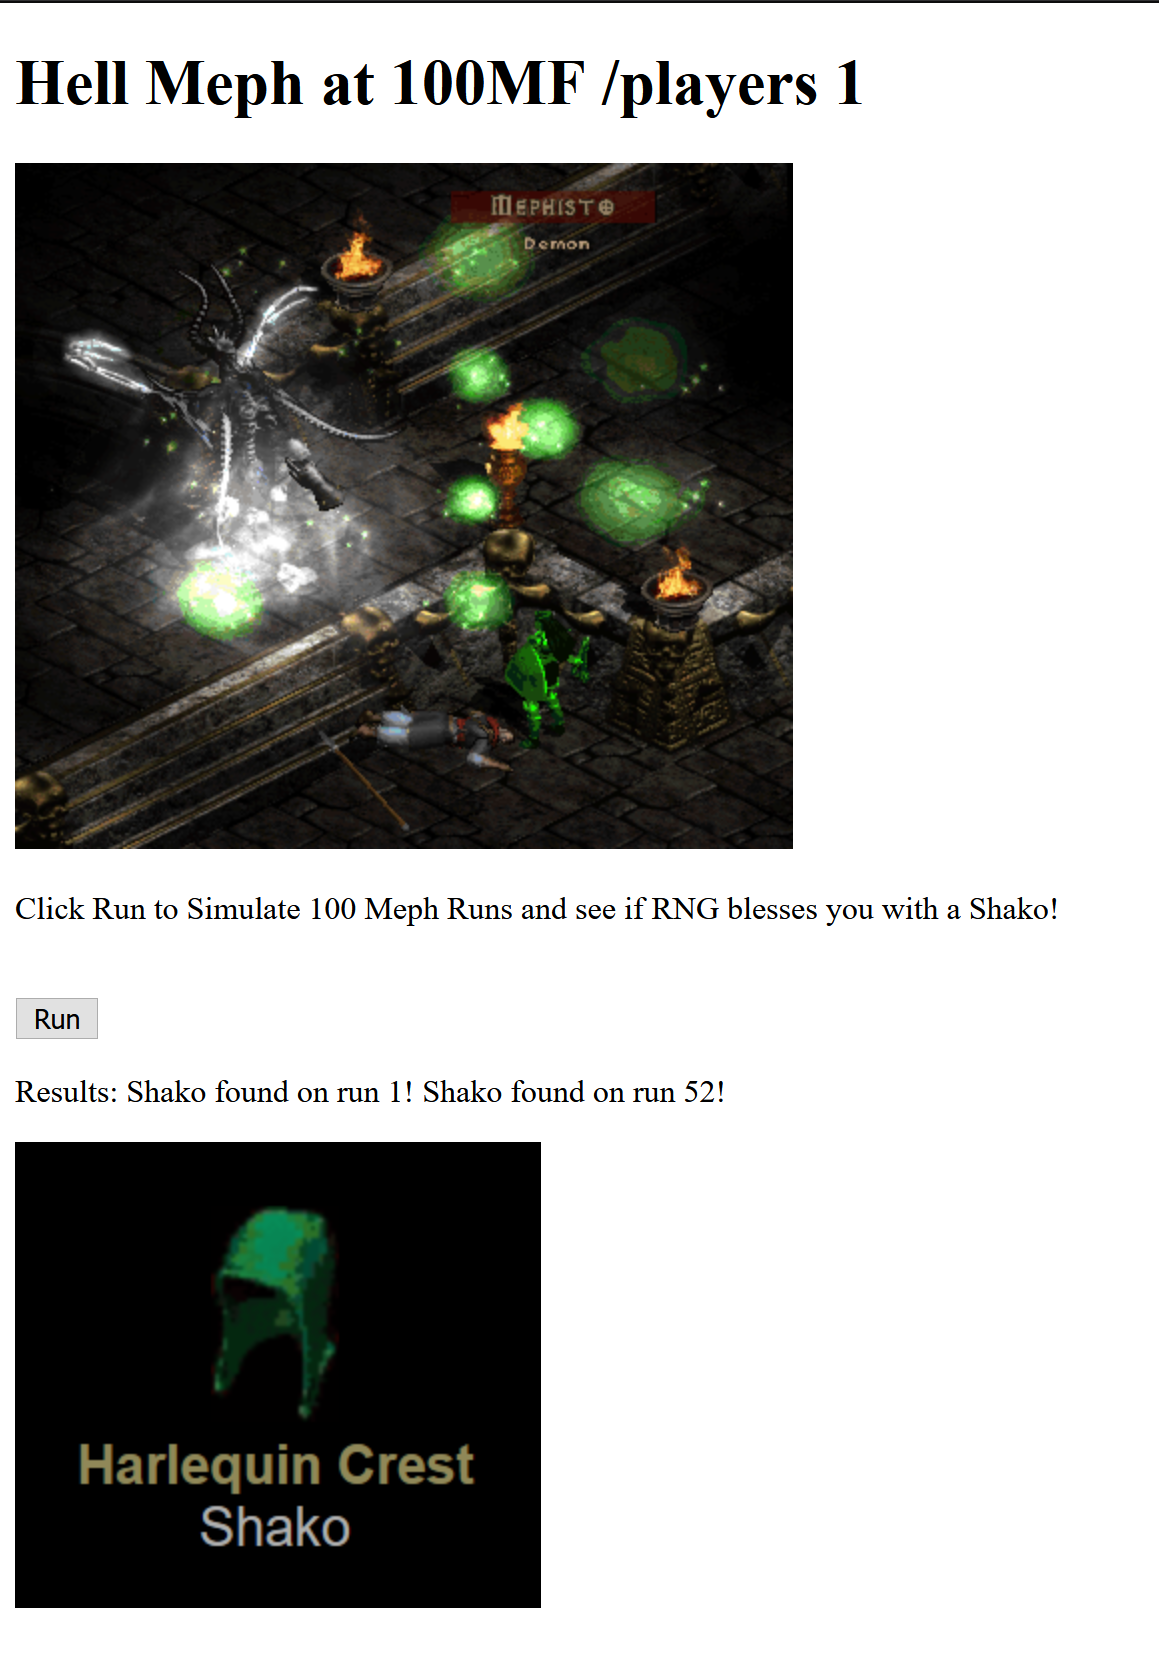
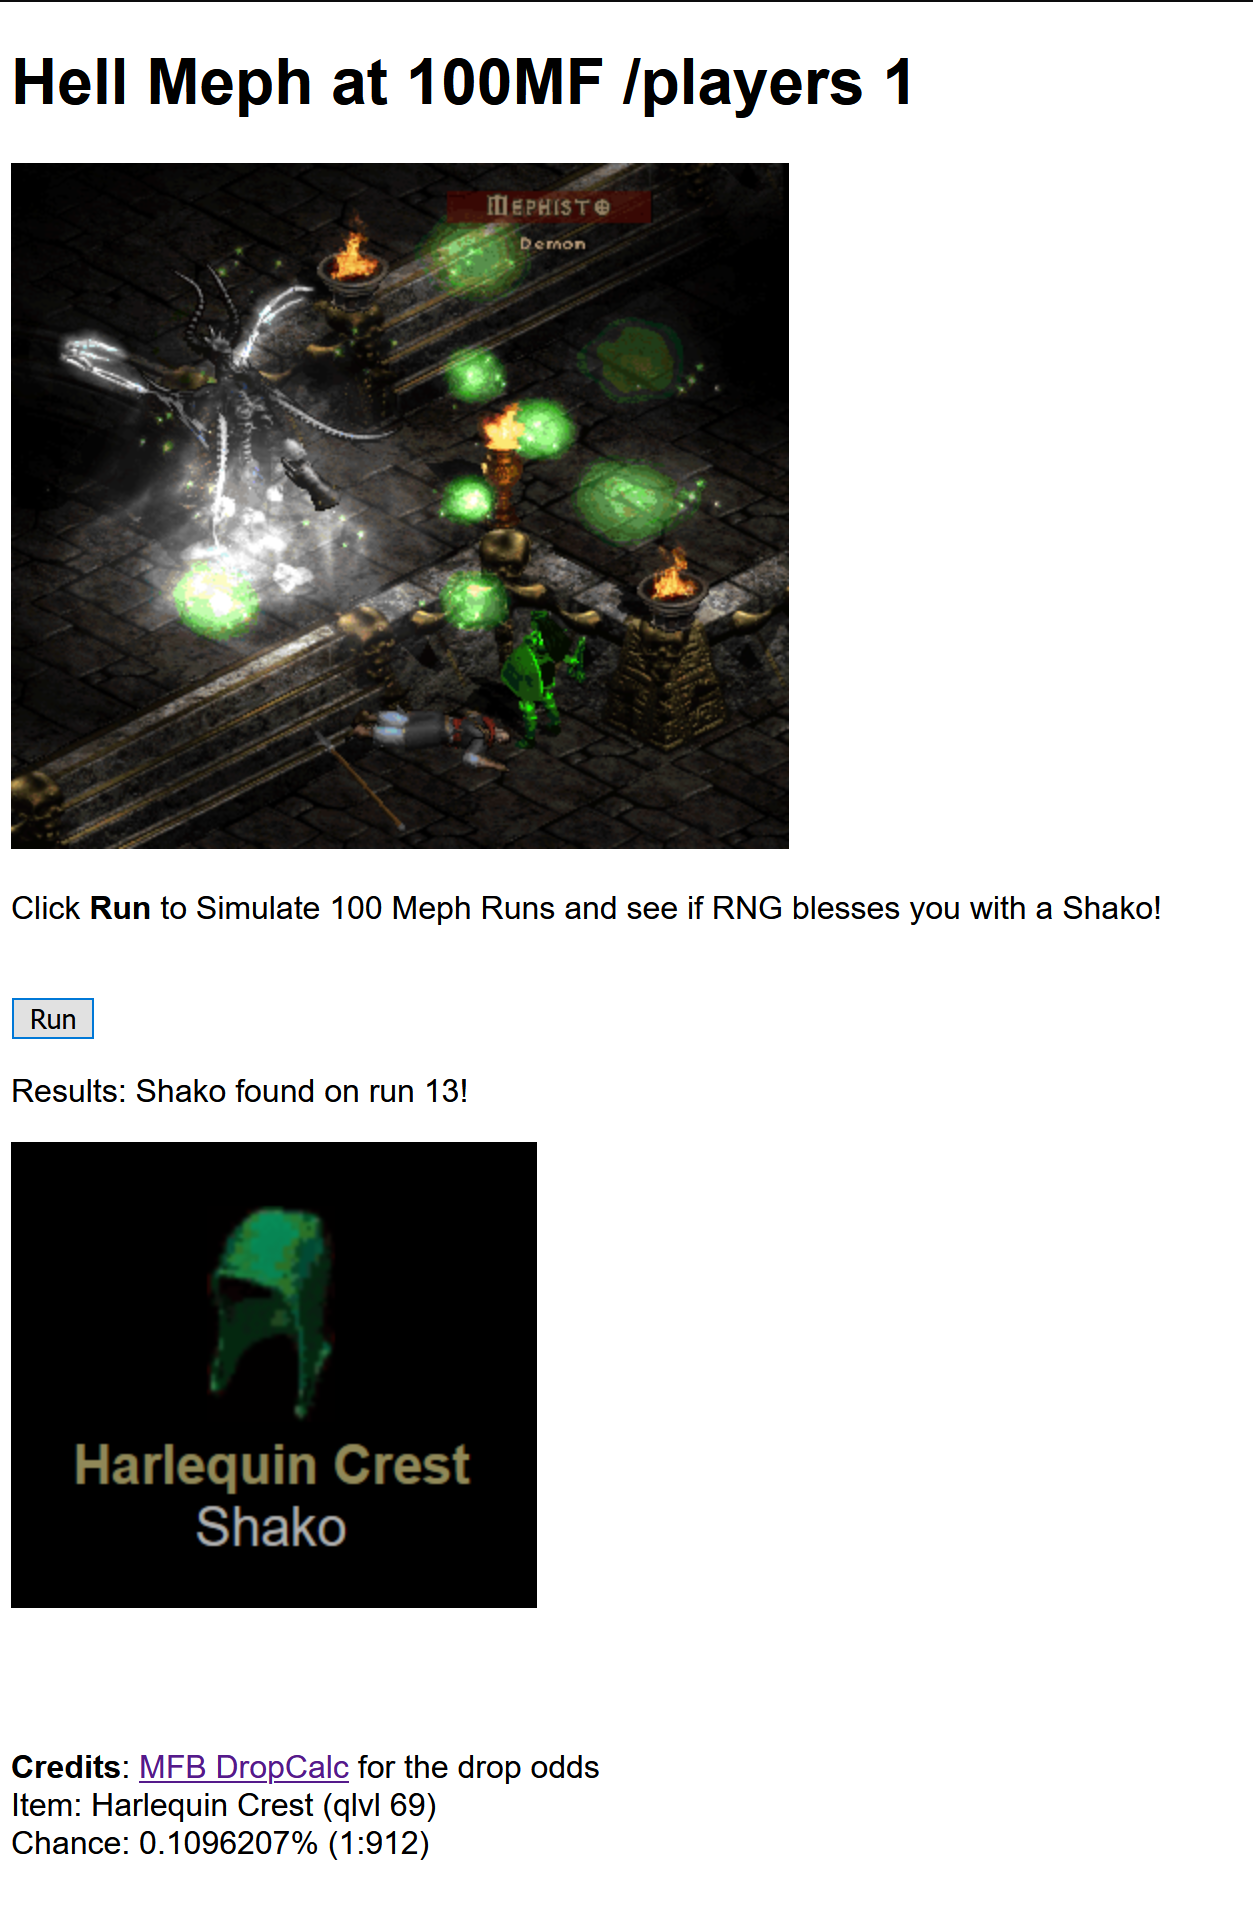
add README and clean up html and function

diff --git a/index.html b/index.html
@@ -4,11 +4,11 @@
     <meta charset="utf-8">
     <title>Meph, Drop Shako!</title>
   </head>
-  <body>
+  <body style="font-family: arial;">
     <h1> Hell Meph at 100MF /players 1 </h1>
     <img src="img/meph.png" alt="My test image">
     <br>
-    <p> Click Run to Simulate 100 Meph Runs and see if RNG blesses you with a Shako! </p>
+    <p> Click <strong>Run</strong> to Simulate 100 Meph Runs and see if RNG blesses you with a Shako! </p>
     <br> <!-- Using the dropcalc from  http://mfb.bplaced.net/dropcalc/dropcalc.php?lang=en&patch=113&mode=lod&interface=default&window=true -->
     <button>Run</button>
 
@@ -20,5 +20,11 @@
     <img class="shako" src="">
     <script src="script/dropsim.js"></script>
 
+    <br style="margin: 50px;">
+    <p> <strong>Credits</strong>: <a href="http://mfb.bplaced.net/dropcalc">MFB DropCalc</a> for the drop odds <br>
+        Item: Harlequin Crest (qlvl 69) <br> 
+        Chance: 0.1096207% (1:912) 
+    </p>
+    
   </body>
 </html> 

diff --git a/script/dropsim.js b/script/dropsim.js
@@ -12,7 +12,7 @@ function randInt(max) {
     return Math.floor(Math.random() * max);
 }
 
-
+// Run clicked, results populated
 button.onclick = function() {
     resultTxt.textContent = 'Results:';
     shakoImg.src = ""

diff --git a/README.md b/README.md
@@ -1,0 +1,6 @@
+## Drop Me Shako
+This web app simulates 100 runs of Hell Meph at 100 Magic Find on `/players1`.  
+It uses drop odds for a Shako from the [MFB DropCalc](http://mfb.bplaced.net/dropcalc).
+
+## Play
+[Link here]()
